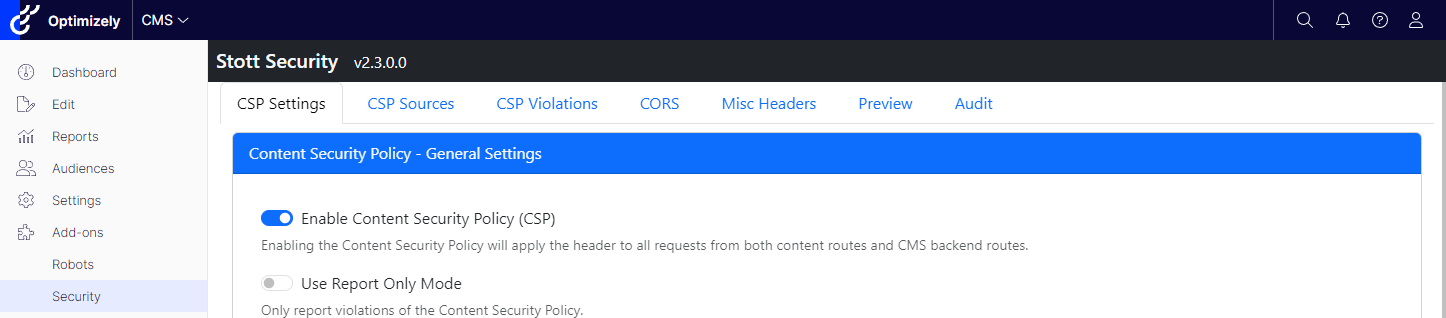
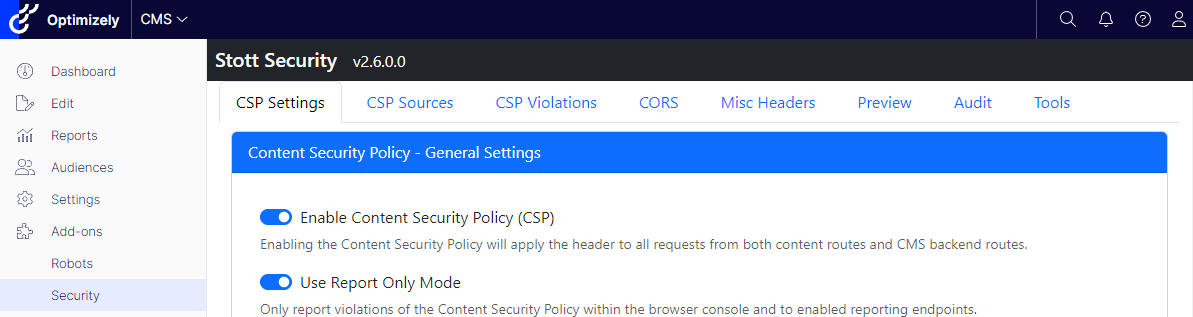
Package as version 2.6.0

diff --git a/README.md b/README.md
@@ -16,13 +16,14 @@ Stott Security is a free to use module, however if you want to show your support
 
 ## Interface
 
-The user interface is split into 7 tabs:
+The user interface is split into 8 tabs:
 
 - Tabs 1 to 3 focus on the Content Security Policy.
 - Tab 4 focuses on the Cross Origin Resource Sharing functionality.
 - Tab 5 focuses on miscellaneous response headers.
 - Tab 6 provides you with a preview of the headers the module will generate.
 - Tab 7 provides you with the audit history for all changes made within the module.
+- Tab 8 provides you with additional tools to import and export settings.
 
 ![CSP Settings Tab](/Images/TabList.png)
 
@@ -87,15 +88,15 @@ Recommendations:
 
 The CSP Violations tab is the forth tab dedicated to managing your Content Security Policy.  This tab requires a developer to add the reporting view component to the website (read more below under CSP Reporting).  When the plugin receives a report of a violation of the Content Security Policy, it will make a record of the third party source and what directive was violated. This is then presented to the user so that that can see how often a violation is happening and when it last happened.  A handy **Create CSP Entry** button allows the user to quickly merge the violated source and directive into the Content Security Policy.
 
-**Updated in version 2.0.0.0 to include source and directive filtering.**
+**Updated in version 2.0.0 to include source and directive filtering.**
 
 ![CSP Violations Tab](/Images/CspViolationTab.png)
 
 ### Cross Origin Resource Sharing
 
-**New in version 2.0.0.0**
+**New in version 2.0.0**
 
-The CORS tab is new in version 2.0.0.0 and allows the user to configure the Cross-Origin Resource Sharing headers for the website.  This is used to grant permissions to third party websites to consume APIs and content from your website.  As trends have moved towards headless and hybrid solutions, controlling your CORS headers can be essential to allowing hybrid solutions to work.
+The CORS tab is new in version 2.0.0 and allows the user to configure the Cross-Origin Resource Sharing headers for the website.  This is used to grant permissions to third party websites to consume APIs and content from your website.  As trends have moved towards headless and hybrid solutions, controlling your CORS headers can be essential to allowing hybrid solutions to work.
 
 ![CORS Tab](/Images/CorsTab.png)
 
@@ -113,7 +114,7 @@ The CORS tab is new in version 2.0.0.0 and allows the user to configure the Cros
 
 The Security Headers tab is a catch all for many simple security headers.  Some of these are deprecated by the existance of a Content Security Policy, but may still be required for older browsers which do not support a Content Security Policy.
 
-![CORS Tab](/Images/SecurityHeadersTab1.png)
+![Security Headers Tab](/Images/SecurityHeadersTab1.png)
 
 | Setting | Default | Recommended |
 |---------|---------|-------------|
@@ -124,7 +125,7 @@ The Security Headers tab is a catch all for many simple security headers.  Some 
 
 Please note that the X-XSS-Protection header is classed as non-standard and deprecated by the Content Security Policy and in some implementations can introduce vulnerabilities.  This option may be removed in future. You can read more here: [X-XSS-Protection](https://developer.mozilla.org/en-US/docs/Web/HTTP/Headers/X-XSS-Protection)
 
-![CORS Tab](/Images/SecurityHeadersTab2.png)
+![Security Headers Tab](/Images/SecurityHeadersTab2.png)
 
 | Setting | Default | Recommended |
 |---------|---------|-------------|
@@ -132,7 +133,7 @@ Please note that the X-XSS-Protection header is classed as non-standard and depr
 | Include Cross Origin Opener Policy (Cross-Origin-Opener-Policy) | disabled | Same Origin |
 | Include Cross Origin Resource Policy (Cross-Origin-Resource-Policy) | disabled | Same Origin |
 
-![CORS Tab](/Images/SecurityHeadersTab3.png)
+![Security Headers Tab](/Images/SecurityHeadersTab3.png)
 
 | Setting | Default | Recommended |
 |---------|---------|-------------|
@@ -144,7 +145,7 @@ Please note that the X-XSS-Protection header is classed as non-standard and depr
 
 The preview screen will show you the compiled headers that will be returned as part of any GET request.  This does not include CORS headers as these vary based on request or may only be exposed as part of a pre-flight request by the browser.
 
-**New in version 2.2.0.0**
+**New in version 2.2.0**
 
 ![CORS Tab](/Images/PreviewTab.png)
 
@@ -155,6 +156,14 @@ Any change to any of the security headers requires an Authorised user. Every API
 Please note that this module does not contain any code that clears down the audit table.
 
 ![CORS Tab](/Images/AuditTab.png)
+
+## Tools
+
+The tools tab introduces the ability to import and export your entire configuration.  The Export function will provide you with a JSON file of all of your configuration settings.  The Import function will require the same JSON file structure and will validate the content of the configuration before applying it.
+
+**New in version 2.6.0**
+
+![Tools Tab](/Images/ToolsTab.png)
 
 ## Configuration
 
